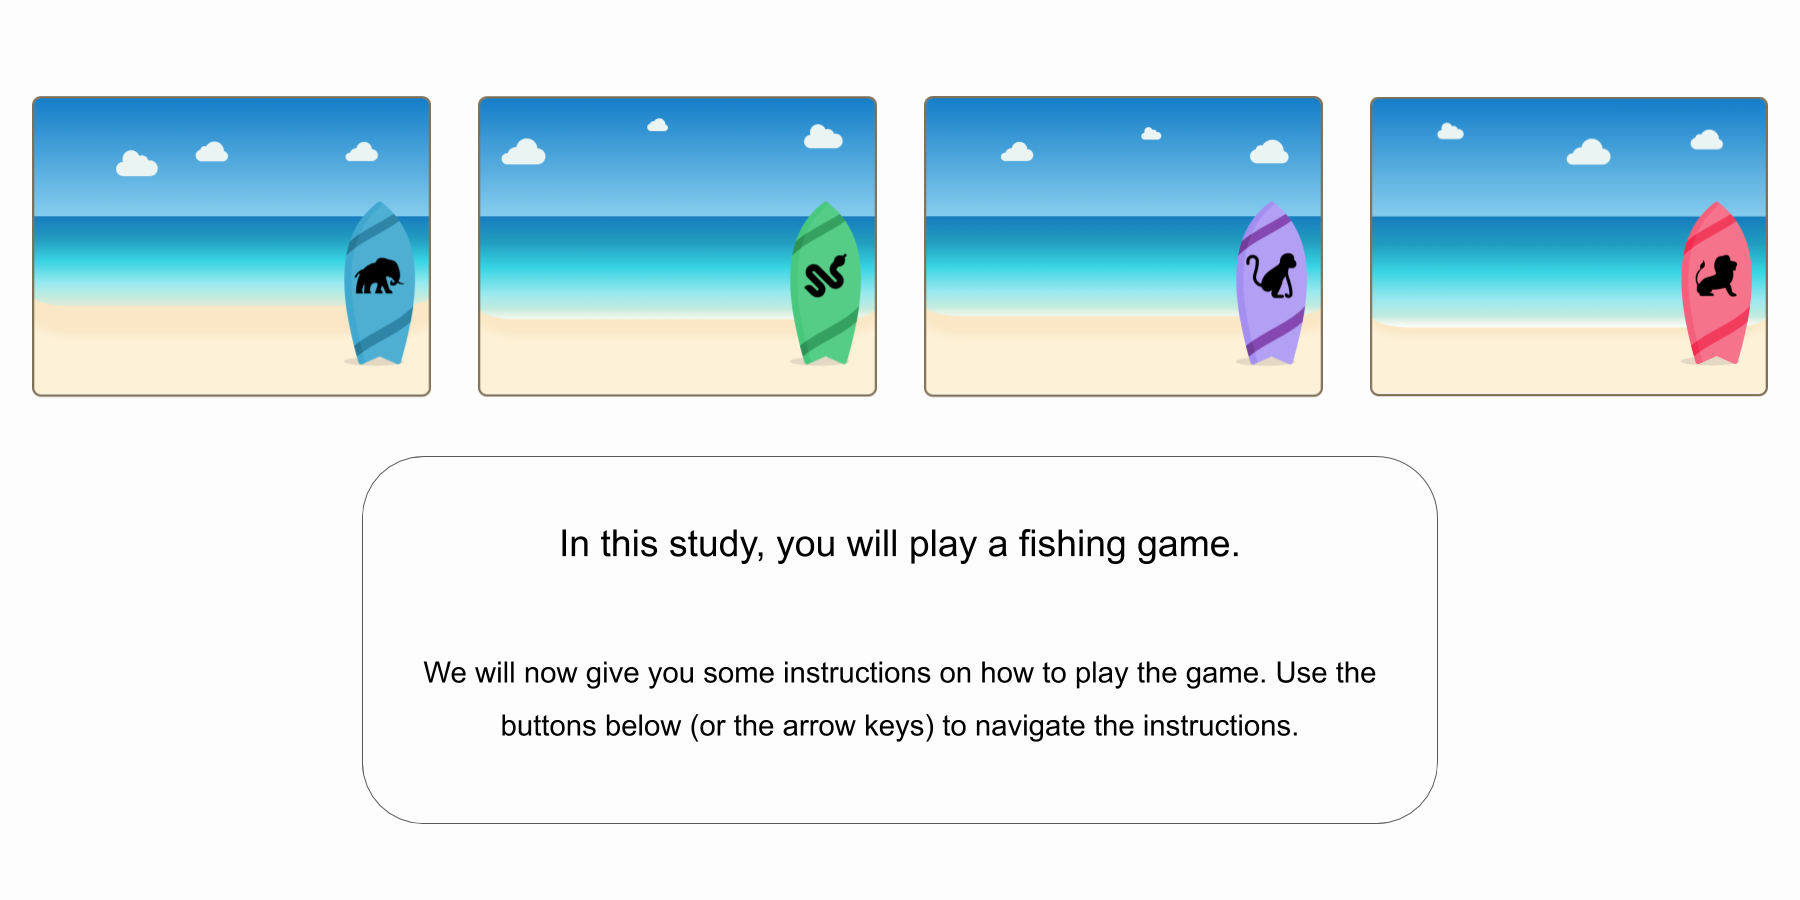
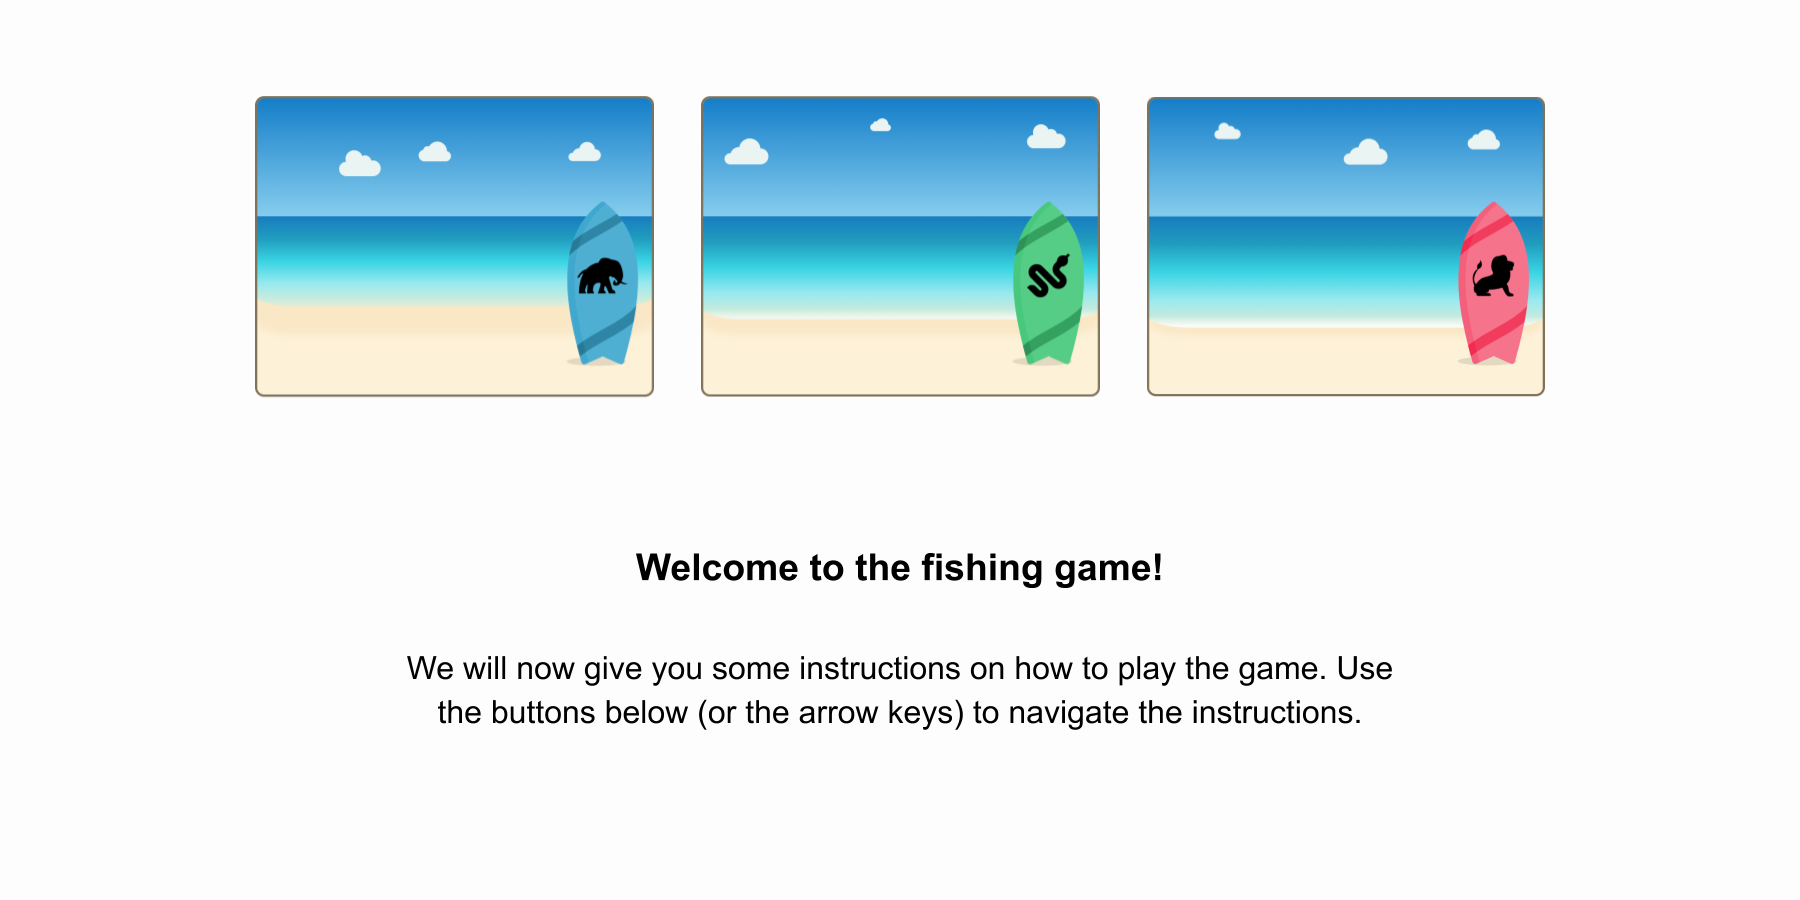
3arm (6): - updated instructions - added comprehension check - simplified task

diff --git a/app/templates/experiment.html b/app/templates/experiment.html
@@ -11,15 +11,17 @@
   <script src="../static/js/three-arm-experiment.js" type="text/javascript"></script>
   <script src="../static/js/three-arm-surveys.js" type="text/javascript"></script>
 
-  <!-- Load jsPsych plug-ins -->
-  <script src="../static/js/jspsych-three-arm-trial.js" type="text/javascript"></script>
-  <script src="../static/js/jspsych-three-arm-comprehension.js" type="text/javascript"></script>
-  <script src="../static/lib/jspsych-6.1.0/plugins/jspsych-instructions.js" type="text/javascript"></script>
-
   <!-- Load NivTurk plug-ins -->
   <script src="../static/js/jspsych-pass-data.js" type="text/javascript"></script>
   <script src="../static/js/jspsych-pass-message.js" type="text/javascript"></script>
   <script src="../static/js/jspsych-reject-data.js" type="text/javascript"></script>
+
+  <!-- Load jsPsych plug-ins -->
+  <script src="../static/js/jspsych-three-arm-trial.js" type="text/javascript"></script>
+  <script src="../static/js/jspsych-three-arm-comprehension.js" type="text/javascript"></script>
+  <script src="../static/lib/jspsych-6.1.0/plugins/jspsych-instructions.js" type="text/javascript"></script>
+  <script src="../static/js/jspsych-survey-demo.js" type="text/javascript"></script>
+  <script src="../static/lib/jspsych-6.1.0/plugins/jspsych-call-function.js" type="text/javascript"></script>
 
   <!-- Load CSS styles -->
   <link href="../static/css/fishing-competition.min.css" rel="stylesheet" type="text/css"></link>
@@ -43,12 +45,16 @@
     task_version: 'v0.1',
   });
 
+  // Define global variables.
+  var low_quality = false;
+
   // Define timeline.
   var timeline = [];
-  timeline = timeline.concat(instructions_loop);
-  timeline = timeline.concat(ready);
-  timeline = timeline.concat(trials);
-  timeline = timeline.concat(demographics);
+  timeline = timeline.concat(instructions_loop);      // Instructions loop
+  timeline = timeline.concat(comprehension_check);    // Comprehension check (implicit)
+  timeline = timeline.concat(ready);                  // Ready check
+  timeline = timeline.concat(trials);                 // Bandit task
+  timeline = timeline.concat(demographics);           // Demographics form
 
   jsPsych.init({
     timeline: timeline,
@@ -66,15 +72,15 @@
       // Testing
       jsPsych.data.displayData();
 
-      if (missed_responses < missed_threshold) {
-
-        // Save complete dataset to disk.
-        pass_data("{{workerId}}", "{{assignmentId}}", "{{hitId}}",  "{{a}}", "{{tp_a}}", "{{b}}", "{{tp_b}}", "{{c}}", "{{tp_c}}");
-
-      } else {
+      if (low_quality || num_loops >= max_loops) {
 
         // Save rejected dataset to disk.
         reject_data('1011');
+
+      } else {
+
+        // Save complete dataset to disk.
+        pass_data("{{workerId}}", "{{assignmentId}}", "{{hitId}}",  "{{a}}", "{{tp_a}}", "{{b}}", "{{tp_b}}", "{{c}}", "{{tp_c}}");
 
       }
 

diff --git a/app/static/js/jspsych-three-arm-comprehension.js b/app/static/js/jspsych-three-arm-comprehension.js
@@ -1,16 +1,16 @@
 /**
- * jspsych-two-arm-comprehension
+ * jspsych-three-arm-comprehension
  * Sam Zorowitz
  *
- * plugin for running the comprehension check for the 2-arm bandit task
+ * plugin for running the comprehension check for the 3-arm bandit task
  *
  **/
 
-jsPsych.plugins['two-arm-comprehension'] = (function() {
+jsPsych.plugins['three-arm-comprehension'] = (function() {
   var plugin = {};
 
   plugin.info = {
-    name: 'two-arm-comprehension',
+    name: 'three-arm-comprehension',
     description: '',
     parameters: {
       button_label: {
@@ -39,8 +39,8 @@ jsPsych.plugins['two-arm-comprehension'] = (function() {
     var prompts = [
       "<b><i>True</i> or <i>False</i>:</b>&nbsp;&nbsp;Your goal is to catch as many fish as you can.",
       "<b><i>True</i> or <i>False</i>:</b>&nbsp;&nbsp;You are more likely to catch fish at some beaches than others.",
-      "<b><i>True</i> or <i>False</i>:</b>&nbsp;&nbsp;Even at the best beach, you will sometimes catch trash.",
-      "<b><i>True</i> or <i>False</i>:</b>&nbsp;&nbsp;You can catch fish at a closed beach.",
+      "<b><i>True</i> or <i>False</i>:</b>&nbsp;&nbsp;You will always catch fish at the best beach.",
+      "<b><i>True</i> or <i>False</i>:</b>&nbsp;&nbsp;How likely you are to catch a fish at a beach stays the same over time.",
       "<b><i>True</i> or <i>False</i>:</b>&nbsp;&nbsp;The number of fish you catch will affect your final performance bonus.",
     ];
 
@@ -57,7 +57,7 @@ jsPsych.plugins['two-arm-comprehension'] = (function() {
     var correct = [
       "True",
       "True",
-      "True",
+      "False",
       "False",
       "True",
     ]

diff --git a/app/static/js/three-arm-experiment.js b/app/static/js/three-arm-experiment.js
@@ -13,7 +13,9 @@ const choice_duration = 10000;
 const feedback_duration = 1200;
 
 // Define comprehension threshold.
-const max_errors = 1;
+var max_errors = 0;
+var max_loops = 2;
+var num_loops = 0;
 
 // Define missed repsonses count.
 var missed_threshold = 6;
@@ -88,11 +90,25 @@ var instructions_loop = {
 
     // Check if instructions should repeat.
     if (num_errors > max_errors) {
-      return true;
+      num_loops++;
+      if (num_loops >= max_loops) {
+        low_quality = true;
+        return false;
+      } else {
+        return true;
+      }
     } else {
       return false;
     }
 
+  }
+}
+
+var comprehension_check = {
+  type: 'call-function',
+  func: function(){},
+  on_finish: function(trial) {
+    if (low_quality) { jsPsych.endExperiment(); }
   }
 }
 
@@ -112,11 +128,10 @@ var ready = {
 //------------------------------------//
 
 // Define block lengths.
-var blocks = jsPsych.randomization.repeat([8, 9, 10, 11, 12], 2, false);
-blocks.unshift(12);
+var blocks = [15, 15, 15, 15];
 
 // Initialize reward probabilities.
-probs = jsPsych.randomization.shuffle([0.7, 0.3, 0.3]);
+probs = jsPsych.randomization.shuffle([0.80, 0.20, 0.20]);
 
 // Predefine trial outcomes.
 var outcomes = [];

diff --git a/README.rst b/README.rst
@@ -1,7 +1,7 @@
 ThreeArmJS
 ==========
 
-A simple nonstationary 3-arm bandit task modeled after `Huang et al. (2017) <https://doi.org/10.1016/j.biopsych.2017.07.007>`_ and `Suzuki et al. (2019) <https://doi.org/10.1101/730614>`_.
+A 3-arm reversal learning bandit task.
 
 Wiki
 ^^^^
